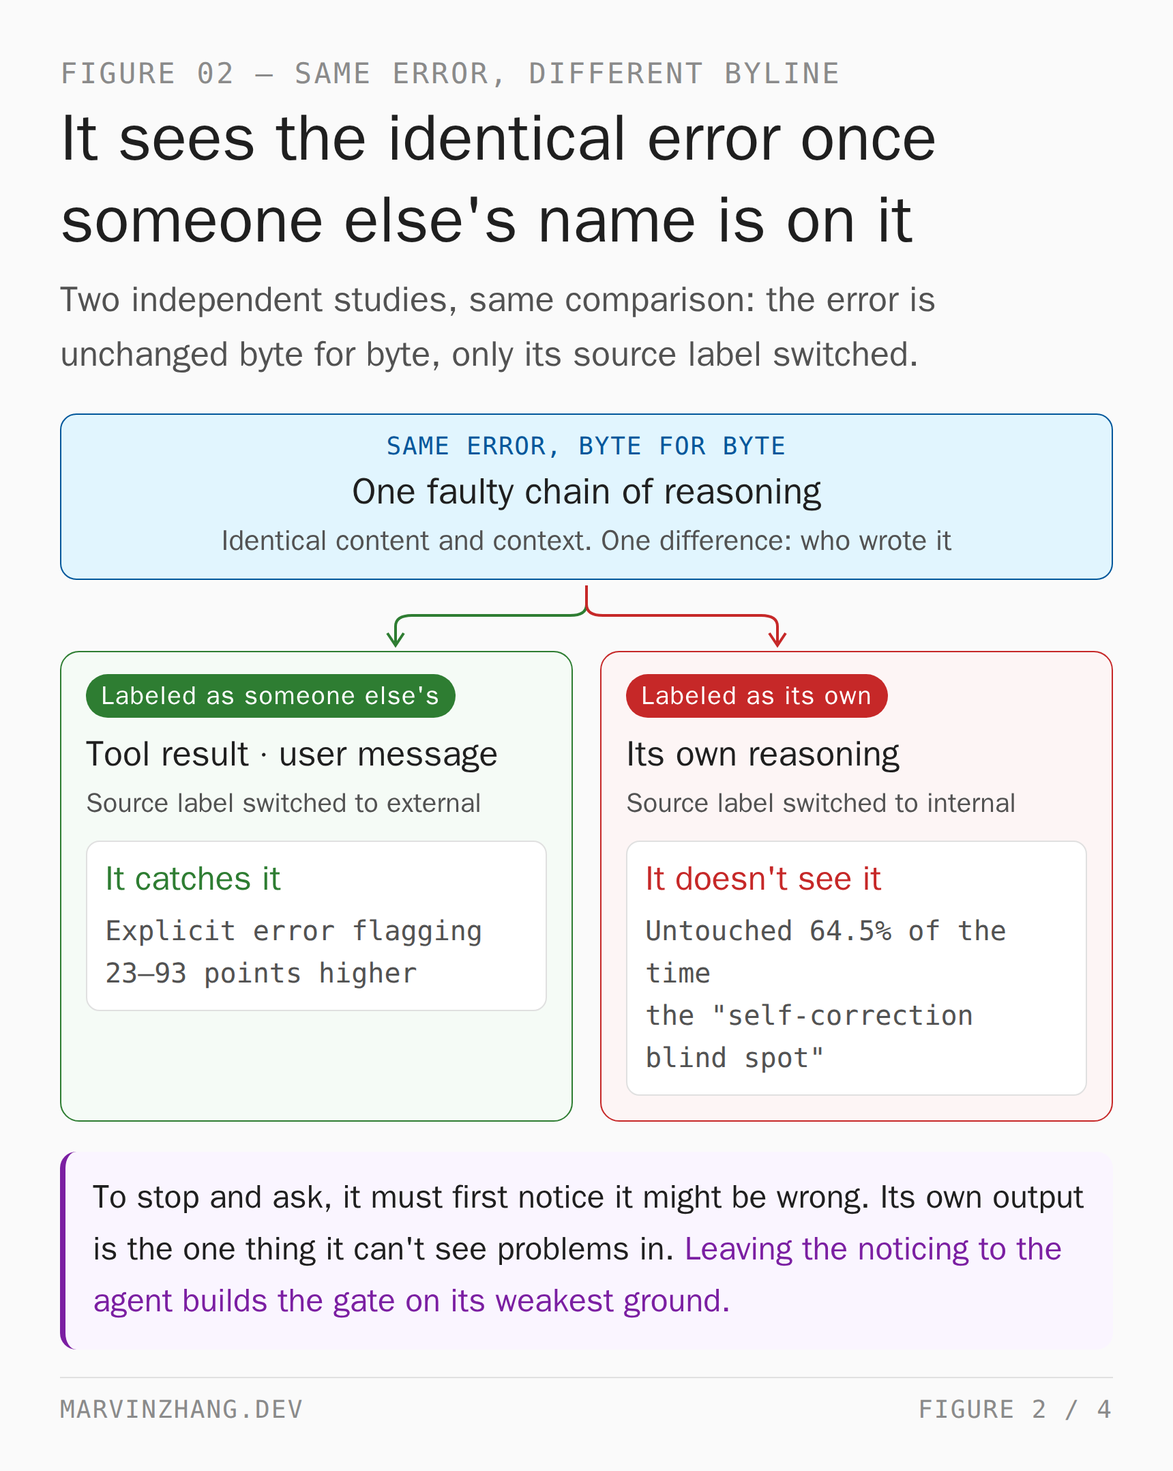
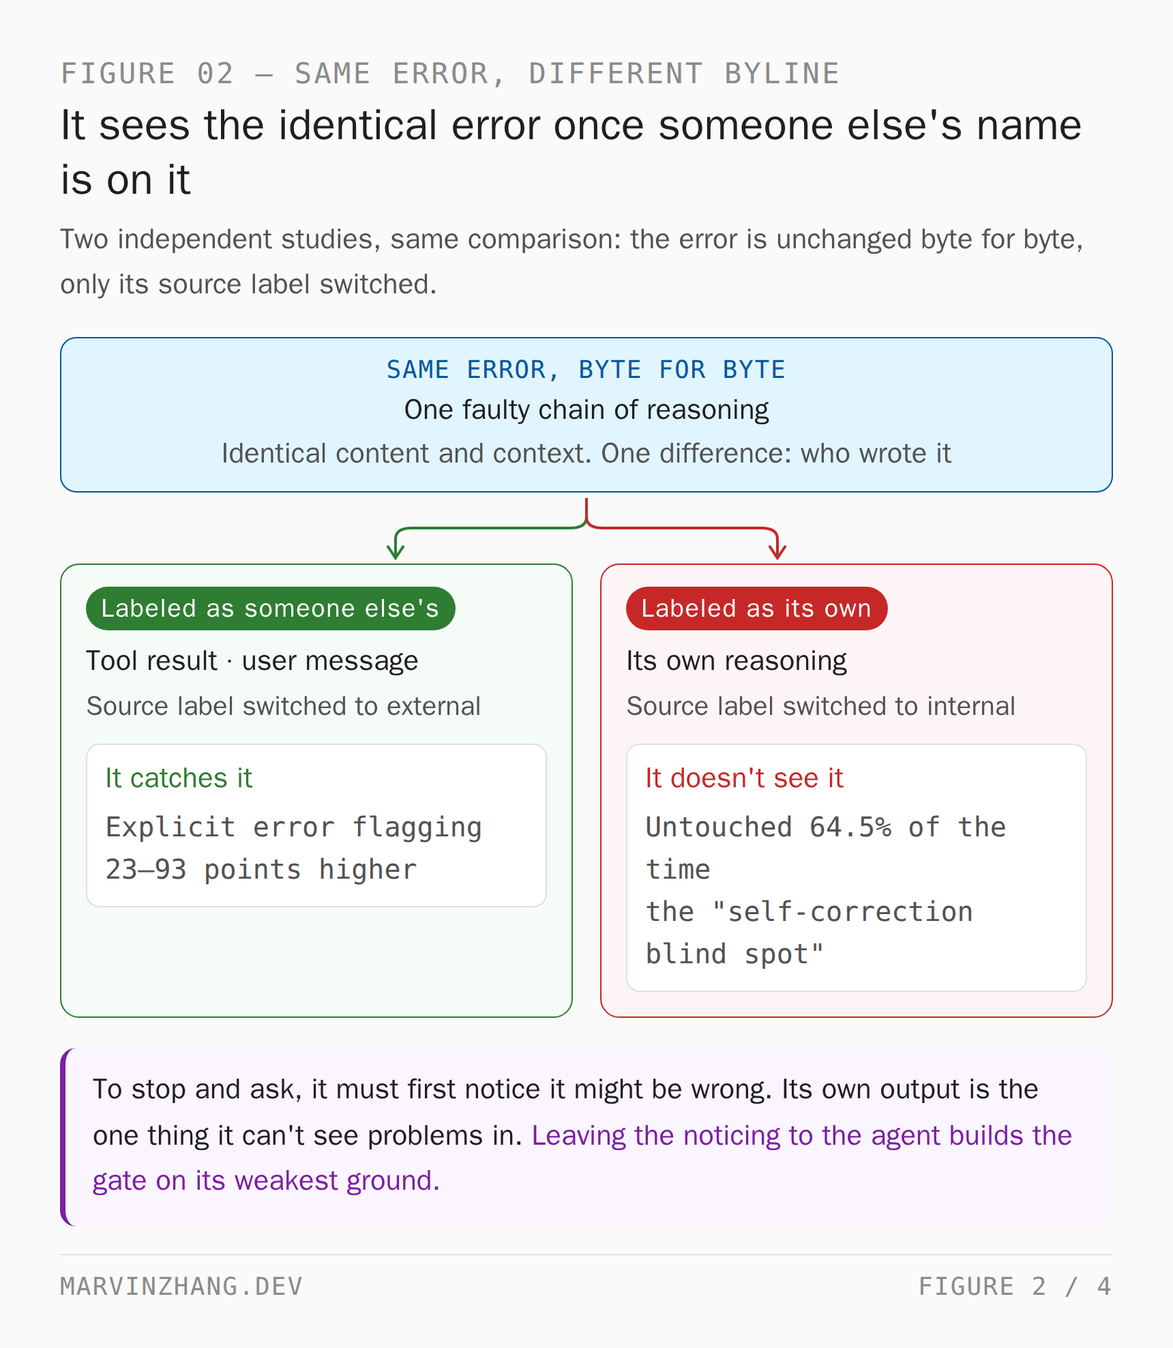
Compress the figure type scale: only the small text needed help
The previous pass scaled every size by 1.6x, which was wrong. Only the
small text had a legibility problem. The title was already 30px on an
860px canvas, i.e. 12.5px effective on a phone and perfectly readable;
pushing it to 42px bought nothing on the phone and made it 36px on
desktop against 18px body copy. The figure ended up shouting over the
prose it sits in.

The rule now is per-element rather than uniform: the title is set at 32px,
and nothing else may exceed 21px on this canvas, which is 18px on desktop
— no larger than body copy. Small text keeps most of its gain.

                 canvas   phone   desktop
  title           32      13.3    27.5
  cell title      21       8.7    18.0
  note            20       8.3    17.2
  example         19       7.9    16.3
  footer          18       7.5    15.4

Also drops cell min-height from 132 to 108. Notes were cut to one line in
the last pass but the floor stayed, so every cell carried dead space at
the bottom, which made the figure read as inflated on top of the type
being too large.

Phone effective sizes go from 7.1-10.4 to 7.5-8.7 at the small end, still
well above the 4.8px this started at.

Claude-Session: https://claude.ai/code/session_013SXeSeVJxSr2JRLCpiPBGP

diff --git a/drafts/2026-08-10-stop-babysitting-your-agent/figures/figure-3-trigger.en.html b/drafts/2026-08-10-stop-babysitting-your-agent/figures/figure-3-trigger.en.html
@@ -31,9 +31,9 @@
   .canvas { width: 860px; padding: 42px 44px 34px 44px; background: var(--canvas); }
   .header { margin-bottom: 24px; }
   .figno { font-family:'JetBrains Mono',monospace; font-size: 21px; letter-spacing:.08em; color:var(--ink-faint); text-transform:uppercase; }
-  h1 { font-size: 48px; font-weight:600; margin:6px 0 0; line-height:1.25; }
-  .subtitle { font-size: 26px; color:var(--ink-soft); margin-top:8px; line-height:1.55; }
-  .takeaway { margin-top:24px; padding:15px 20px; border-radius:12px; background:#faf5ff; border-left:4px solid var(--hi-stroke); font-size: 24px; line-height:1.6; }
+  h1 { font-size: 32px; font-weight:600; margin:6px 0 0; line-height:1.25; }
+  .subtitle { font-size: 21px; color:var(--ink-soft); margin-top:8px; line-height:1.55; }
+  .takeaway { margin-top:24px; padding:15px 20px; border-radius:12px; background:#faf5ff; border-left:4px solid var(--hi-stroke); font-size: 21px; line-height:1.6; }
   .takeaway b { color: var(--hi-stroke); }
   .footer { margin-top:22px; display:flex; justify-content:space-between; border-top:1px solid var(--line); padding-top:13px; font-family:'JetBrains Mono',monospace; font-size: 18px; color:var(--ink-faint); letter-spacing:.06em; text-transform:uppercase; }
 
@@ -41,22 +41,22 @@
   .panel { border:1.5px solid var(--line); border-radius:14px; background:#fff; padding:18px 20px 20px; }
   .panel.good { border-color:var(--ok-stroke); background:#f5fbf6; }
   .panel.bad  { border-color:var(--err-stroke); background:#fdf5f5; }
-  .ptitle { font-size: 29px; font-weight:600; }
+  .ptitle { font-size: 21px; font-weight:600; }
   .panel.good .ptitle { color:var(--ok-stroke); }
   .panel.bad  .ptitle { color:var(--err-stroke); }
   .plabel { font-family:'JetBrains Mono',monospace; font-size: 18px; letter-spacing:.05em; color:var(--ink-faint); margin-top:4px; }
 
   .chain { margin-top:16px; }
-  .node { border:1.4px solid var(--line); border-radius:10px; background:#fff; padding:10px 13px; font-size: 22px; line-height:1.45; }
-  .node .k { font-weight:600; font-size: 22px; display:block; margin-bottom:3px; }
+  .node { border:1.4px solid var(--line); border-radius:10px; background:#fff; padding:10px 13px; font-size: 21px; line-height:1.45; }
+  .node .k { font-weight:600; font-size: 21px; display:block; margin-bottom:3px; }
   .node .d { color:var(--ink-soft); font-size: 20px; }
   .node.src-out { border-color:var(--ok-stroke); background:#eef8ef; }
   .node.src-self { border-color:var(--err-stroke); background:#fdeeee; }
   .arrow { display:flex; justify-content:center; padding:7px 0; }
 
   .gate { display:flex; align-items:center; gap:10px; border:1.4px dashed var(--ink-faint); border-radius:10px; padding:10px 13px; background:#fff; }
-  .gate .g { font-size: 22px; font-weight:600; }
-  .verdict { margin-top:14px; border-radius:9px; padding:10px 13px; font-size: 22px; line-height:1.5; }
+  .gate .g { font-size: 21px; font-weight:600; }
+  .verdict { margin-top:14px; border-radius:9px; padding:10px 13px; font-size: 21px; line-height:1.5; }
   .verdict.ok  { background:var(--ok-fill);  color:#1b5e20; border:1px solid var(--ok-stroke); }
   .verdict.bad { background:var(--err-fill); color:#8e1c1c; border:1px solid var(--err-stroke); }
   .verdict b { font-weight:700; }

diff --git a/drafts/2026-08-10-stop-babysitting-your-agent/figures/figure-3-trigger.zh.html b/drafts/2026-08-10-stop-babysitting-your-agent/figures/figure-3-trigger.zh.html
@@ -31,9 +31,9 @@
   .canvas { width: 860px; padding: 42px 44px 34px 44px; background: var(--canvas); }
   .header { margin-bottom: 24px; }
   .figno { font-family:'JetBrains Mono',monospace; font-size: 21px; letter-spacing:.08em; color:var(--ink-faint); text-transform:uppercase; }
-  h1 { font-size: 48px; font-weight:600; margin:6px 0 0; line-height:1.25; }
-  .subtitle { font-size: 26px; color:var(--ink-soft); margin-top:8px; line-height:1.55; }
-  .takeaway { margin-top:24px; padding:15px 20px; border-radius:12px; background:#faf5ff; border-left:4px solid var(--hi-stroke); font-size: 24px; line-height:1.6; }
+  h1 { font-size: 32px; font-weight:600; margin:6px 0 0; line-height:1.25; }
+  .subtitle { font-size: 21px; color:var(--ink-soft); margin-top:8px; line-height:1.55; }
+  .takeaway { margin-top:24px; padding:15px 20px; border-radius:12px; background:#faf5ff; border-left:4px solid var(--hi-stroke); font-size: 21px; line-height:1.6; }
   .takeaway b { color: var(--hi-stroke); }
   .footer { margin-top:22px; display:flex; justify-content:space-between; border-top:1px solid var(--line); padding-top:13px; font-family:'JetBrains Mono',monospace; font-size: 18px; color:var(--ink-faint); letter-spacing:.06em; text-transform:uppercase; }
 
@@ -41,22 +41,22 @@
   .panel { border:1.5px solid var(--line); border-radius:14px; background:#fff; padding:18px 20px 20px; }
   .panel.good { border-color:var(--ok-stroke); background:#f5fbf6; }
   .panel.bad  { border-color:var(--err-stroke); background:#fdf5f5; }
-  .ptitle { font-size: 29px; font-weight:600; }
+  .ptitle { font-size: 21px; font-weight:600; }
   .panel.good .ptitle { color:var(--ok-stroke); }
   .panel.bad  .ptitle { color:var(--err-stroke); }
   .plabel { font-family:'JetBrains Mono',monospace; font-size: 18px; letter-spacing:.05em; color:var(--ink-faint); margin-top:4px; }
 
   .chain { margin-top:16px; }
-  .node { border:1.4px solid var(--line); border-radius:10px; background:#fff; padding:10px 13px; font-size: 22px; line-height:1.45; }
-  .node .k { font-weight:600; font-size: 22px; display:block; margin-bottom:3px; }
+  .node { border:1.4px solid var(--line); border-radius:10px; background:#fff; padding:10px 13px; font-size: 21px; line-height:1.45; }
+  .node .k { font-weight:600; font-size: 21px; display:block; margin-bottom:3px; }
   .node .d { color:var(--ink-soft); font-size: 20px; }
   .node.src-out { border-color:var(--ok-stroke); background:#eef8ef; }
   .node.src-self { border-color:var(--err-stroke); background:#fdeeee; }
   .arrow { display:flex; justify-content:center; padding:7px 0; }
 
   .gate { display:flex; align-items:center; gap:10px; border:1.4px dashed var(--ink-faint); border-radius:10px; padding:10px 13px; background:#fff; }
-  .gate .g { font-size: 22px; font-weight:600; }
-  .verdict { margin-top:14px; border-radius:9px; padding:10px 13px; font-size: 22px; line-height:1.5; }
+  .gate .g { font-size: 21px; font-weight:600; }
+  .verdict { margin-top:14px; border-radius:9px; padding:10px 13px; font-size: 21px; line-height:1.5; }
   .verdict.ok  { background:var(--ok-fill);  color:#1b5e20; border:1px solid var(--ok-stroke); }
   .verdict.bad { background:var(--err-fill); color:#8e1c1c; border:1px solid var(--err-stroke); }
   .verdict b { font-weight:700; }

diff --git a/drafts/2026-08-10-stop-babysitting-your-agent/figures/figure-1-control.en.html b/drafts/2026-08-10-stop-babysitting-your-agent/figures/figure-1-control.en.html
@@ -36,19 +36,19 @@
   .canvas { width: 860px; padding: 42px 44px 34px 44px; background: var(--canvas); }
   .header { margin-bottom: 26px; }
   .figno { font-family: 'JetBrains Mono', monospace; font-size: 21px; letter-spacing: 0.08em; color: var(--ink-faint); text-transform: uppercase; }
-  h1 { font-size: 48px; font-weight: 600; margin: 6px 0 0 0; letter-spacing: -0.005em; line-height: 1.25; }
-  .subtitle { font-size: 26px; color: var(--ink-soft); margin-top: 8px; line-height: 1.55; }
-  .takeaway { margin-top: 24px; padding: 15px 20px; border-radius: 12px; background: #faf5ff; border-left: 4px solid var(--hi-stroke); font-size: 24px; line-height: 1.6; }
+  h1 { font-size: 32px; font-weight: 600; margin: 6px 0 0 0; letter-spacing: -0.005em; line-height: 1.25; }
+  .subtitle { font-size: 21px; color: var(--ink-soft); margin-top: 8px; line-height: 1.55; }
+  .takeaway { margin-top: 24px; padding: 15px 20px; border-radius: 12px; background: #faf5ff; border-left: 4px solid var(--hi-stroke); font-size: 21px; line-height: 1.6; }
   .takeaway b { color: var(--hi-stroke); }
   .footer { margin-top: 22px; display: flex; justify-content: space-between; align-items: center; border-top: 1px solid var(--line); padding-top: 13px; font-family: 'JetBrains Mono', monospace; font-size: 18px; color: var(--ink-faint); letter-spacing: 0.06em; text-transform: uppercase; }
 
   .grid { display: grid; grid-template-columns: 168px 1fr 1fr; grid-template-rows: 64px 1fr 1fr; gap: 12px; }
-  .colhead, .rowhead { display: flex; flex-direction: column; align-items: center; justify-content: center; text-align: center; font-size: 23px; font-weight: 600; color: var(--ink-soft); line-height: 1.35; }
+  .colhead, .rowhead { display: flex; flex-direction: column; align-items: center; justify-content: center; text-align: center; font-size: 21px; font-weight: 600; color: var(--ink-soft); line-height: 1.35; }
   .colhead .sub { display: block; font-weight: 400; font-size: 20px; color: var(--ink-faint); margin-top: 3px; }
   .corner { }
 
-  .cell { border: 1.5px solid var(--line); border-radius: 12px; padding: 15px 17px; background: #fff; min-height: 132px; position: relative; }
-  .cell .mode { font-size: 27px; font-weight: 600; line-height: 1.3; }
+  .cell { border: 1.5px solid var(--line); border-radius: 12px; padding: 15px 17px; background: #fff; min-height: 108px; position: relative; }
+  .cell .mode { font-size: 21px; font-weight: 600; line-height: 1.3; }
   .cell .eg { font-family: 'JetBrains Mono', monospace; font-size: 19px; color: var(--ink-faint); letter-spacing: 0.03em; margin-top: 7px; }
   .cell .note { font-size: 21px; color: var(--ink-soft); line-height: 1.5; margin-top: 9px; }
 
@@ -63,7 +63,7 @@
   .pin.out { background: var(--ok-stroke); }
 
   .arrow { display: flex; justify-content: flex-end; margin-top: 10px; align-items: center; gap: 9px; }
-  .arrow .txt { font-size: 22px; font-weight: 600; color: var(--ok-stroke); }
+  .arrow .txt { font-size: 21px; font-weight: 600; color: var(--ok-stroke); }
 </style>
 </head>
 <body>

diff --git a/drafts/2026-08-10-stop-babysitting-your-agent/figures/figure-2-same-error.en.html b/drafts/2026-08-10-stop-babysitting-your-agent/figures/figure-2-same-error.en.html
@@ -32,15 +32,15 @@
   .canvas { width:860px; padding:42px 44px 34px 44px; background:var(--canvas); }
   .header { margin-bottom:22px; }
   .figno { font-family:'JetBrains Mono',monospace; font-size: 21px; letter-spacing:.08em; color:var(--ink-faint); text-transform:uppercase; }
-  h1 { font-size: 48px; font-weight:600; margin:6px 0 0; line-height:1.25; }
-  .subtitle { font-size: 26px; color:var(--ink-soft); margin-top:8px; line-height:1.55; }
-  .takeaway { margin-top:22px; padding:15px 20px; border-radius:12px; background:#faf5ff; border-left:4px solid var(--hi-stroke); font-size: 24px; line-height:1.6; }
+  h1 { font-size: 32px; font-weight:600; margin:6px 0 0; line-height:1.25; }
+  .subtitle { font-size: 21px; color:var(--ink-soft); margin-top:8px; line-height:1.55; }
+  .takeaway { margin-top:22px; padding:15px 20px; border-radius:12px; background:#faf5ff; border-left:4px solid var(--hi-stroke); font-size: 21px; line-height:1.6; }
   .takeaway b { color:var(--hi-stroke); }
   .footer { margin-top:20px; display:flex; justify-content:space-between; border-top:1px solid var(--line); padding-top:13px; font-family:'JetBrains Mono',monospace; font-size: 18px; color:var(--ink-faint); letter-spacing:.06em; text-transform:uppercase; }
 
   .seed { border:1.6px solid var(--info-stroke); background:var(--info-fill); border-radius:12px; padding:13px 18px; text-align:center; }
   .seed .cap { font-family:'JetBrains Mono',monospace; font-size: 18px; letter-spacing:.05em; color:var(--info-stroke); }
-  .seed .q { font-size: 27px; font-weight:600; margin-top:5px; }
+  .seed .q { font-size: 21px; font-weight:600; margin-top:5px; }
   .seed .n { font-size: 21px; color:var(--ink-soft); margin-top:4px; }
 
   .split { display:flex; justify-content:center; padding:4px 0 2px; }
@@ -51,10 +51,10 @@
   .tag { display:inline-block; font-size: 19px; font-weight:700; letter-spacing:.04em; padding:3px 11px; border-radius:999px; color:#fff; }
   .tag.good { background:var(--ok-stroke); }
   .tag.bad  { background:var(--err-stroke); }
-  .lane .who { font-size: 26px; font-weight:600; margin-top:9px; }
+  .lane .who { font-size: 21px; font-weight:600; margin-top:9px; }
   .lane .eg { font-size: 20px; color:var(--ink-soft); margin-top:4px; line-height:1.45; }
   .out { margin-top:13px; border-radius:10px; padding:11px 13px; background:#fff; border:1.3px solid var(--line); }
-  .out .r { font-size: 25px; font-weight:600; }
+  .out .r { font-size: 21px; font-weight:600; }
   .lane.good .out .r { color:var(--ok-stroke); }
   .lane.bad  .out .r { color:var(--err-stroke); }
   .out .num { font-family:'JetBrains Mono',monospace; font-size: 20px; color:var(--ink-soft); margin-top:6px; line-height:1.55; }

diff --git a/drafts/2026-08-10-stop-babysitting-your-agent/figures/figure-2-same-error.zh.html b/drafts/2026-08-10-stop-babysitting-your-agent/figures/figure-2-same-error.zh.html
@@ -32,15 +32,15 @@
   .canvas { width:860px; padding:42px 44px 34px 44px; background:var(--canvas); }
   .header { margin-bottom:22px; }
   .figno { font-family:'JetBrains Mono',monospace; font-size: 21px; letter-spacing:.08em; color:var(--ink-faint); text-transform:uppercase; }
-  h1 { font-size: 48px; font-weight:600; margin:6px 0 0; line-height:1.25; }
-  .subtitle { font-size: 26px; color:var(--ink-soft); margin-top:8px; line-height:1.55; }
-  .takeaway { margin-top:22px; padding:15px 20px; border-radius:12px; background:#faf5ff; border-left:4px solid var(--hi-stroke); font-size: 24px; line-height:1.6; }
+  h1 { font-size: 32px; font-weight:600; margin:6px 0 0; line-height:1.25; }
+  .subtitle { font-size: 21px; color:var(--ink-soft); margin-top:8px; line-height:1.55; }
+  .takeaway { margin-top:22px; padding:15px 20px; border-radius:12px; background:#faf5ff; border-left:4px solid var(--hi-stroke); font-size: 21px; line-height:1.6; }
   .takeaway b { color:var(--hi-stroke); }
   .footer { margin-top:20px; display:flex; justify-content:space-between; border-top:1px solid var(--line); padding-top:13px; font-family:'JetBrains Mono',monospace; font-size: 18px; color:var(--ink-faint); letter-spacing:.06em; text-transform:uppercase; }
 
   .seed { border:1.6px solid var(--info-stroke); background:var(--info-fill); border-radius:12px; padding:13px 18px; text-align:center; }
   .seed .cap { font-family:'JetBrains Mono',monospace; font-size: 18px; letter-spacing:.05em; color:var(--info-stroke); }
-  .seed .q { font-size: 27px; font-weight:600; margin-top:5px; }
+  .seed .q { font-size: 21px; font-weight:600; margin-top:5px; }
   .seed .n { font-size: 21px; color:var(--ink-soft); margin-top:4px; }
 
   .split { display:flex; justify-content:center; padding:4px 0 2px; }
@@ -51,10 +51,10 @@
   .tag { display:inline-block; font-size: 19px; font-weight:700; letter-spacing:.04em; padding:3px 11px; border-radius:999px; color:#fff; }
   .tag.good { background:var(--ok-stroke); }
   .tag.bad  { background:var(--err-stroke); }
-  .lane .who { font-size: 26px; font-weight:600; margin-top:9px; }
+  .lane .who { font-size: 21px; font-weight:600; margin-top:9px; }
   .lane .eg { font-size: 20px; color:var(--ink-soft); margin-top:4px; line-height:1.45; }
   .out { margin-top:13px; border-radius:10px; padding:11px 13px; background:#fff; border:1.3px solid var(--line); }
-  .out .r { font-size: 25px; font-weight:600; }
+  .out .r { font-size: 21px; font-weight:600; }
   .lane.good .out .r { color:var(--ok-stroke); }
   .lane.bad  .out .r { color:var(--err-stroke); }
   .out .num { font-family:'JetBrains Mono',monospace; font-size: 20px; color:var(--ink-soft); margin-top:6px; line-height:1.55; }

diff --git a/drafts/2026-08-10-stop-babysitting-your-agent/figures/figure-1-control.zh.html b/drafts/2026-08-10-stop-babysitting-your-agent/figures/figure-1-control.zh.html
@@ -36,9 +36,9 @@
   .canvas { width: 860px; padding: 42px 44px 34px 44px; background: var(--canvas); }
   .header { margin-bottom: 26px; }
   .figno { font-family: 'JetBrains Mono', monospace; font-size: 19px; letter-spacing: 0.08em; color: var(--ink-faint); text-transform: uppercase; }
-  h1 { font-size: 42px; font-weight: 600; margin: 8px 0 0 0; letter-spacing: -0.005em; line-height: 1.25; }
-  .subtitle { font-size: 23px; color: var(--ink-soft); margin-top: 10px; line-height: 1.55; }
-  .takeaway { margin-top: 24px; padding: 18px 22px; border-radius: 12px; background: #faf5ff; border-left: 5px solid var(--hi-stroke); font-size: 22px; line-height: 1.6; }
+  h1 { font-size: 32px; font-weight: 600; margin: 8px 0 0 0; letter-spacing: -0.005em; line-height: 1.25; }
+  .subtitle { font-size: 21px; color: var(--ink-soft); margin-top: 10px; line-height: 1.55; }
+  .takeaway { margin-top: 24px; padding: 18px 22px; border-radius: 12px; background: #faf5ff; border-left: 5px solid var(--hi-stroke); font-size: 21px; line-height: 1.6; }
   .takeaway b { color: var(--hi-stroke); }
   .footer { margin-top: 22px; display: flex; justify-content: space-between; align-items: center; border-top: 1px solid var(--line); padding-top: 13px; font-family: 'JetBrains Mono', monospace; font-size: 17px; color: var(--ink-faint); letter-spacing: 0.06em; text-transform: uppercase; }
 
@@ -48,8 +48,8 @@
   .colhead .sub { display: block; font-weight: 400; font-size: 18px; color: var(--ink-faint); margin-top: 3px; }
   .corner { }
 
-  .cell { border: 1.5px solid var(--line); border-radius: 12px; padding: 17px 19px; background: #fff; min-height: 132px; position: relative; }
-  .cell .mode { font-size: 25px; font-weight: 600; line-height: 1.3; }
+  .cell { border: 1.5px solid var(--line); border-radius: 12px; padding: 17px 19px; background: #fff; min-height: 108px; position: relative; }
+  .cell .mode { font-size: 21px; font-weight: 600; line-height: 1.3; }
   .cell .eg { font-family: 'JetBrains Mono', monospace; font-size: 18px; color: var(--ink-faint); letter-spacing: 0.03em; margin-top: 8px; }
   .cell .note { font-size: 20px; color: var(--ink-soft); line-height: 1.5; margin-top: 10px; }
 

diff --git a/drafts/2026-08-10-stop-babysitting-your-agent/figures/figure-4-correlated.en.html b/drafts/2026-08-10-stop-babysitting-your-agent/figures/figure-4-correlated.en.html
@@ -31,18 +31,18 @@
   .canvas { width:860px; padding:42px 44px 34px 44px; background:var(--canvas); }
   .header { margin-bottom:24px; }
   .figno { font-family:'JetBrains Mono',monospace; font-size: 21px; letter-spacing:.08em; color:var(--ink-faint); text-transform:uppercase; }
-  h1 { font-size: 48px; font-weight:600; margin:6px 0 0; line-height:1.25; }
-  .subtitle { font-size: 26px; color:var(--ink-soft); margin-top:8px; line-height:1.55; }
-  .takeaway { margin-top:24px; padding:15px 20px; border-radius:12px; background:#faf5ff; border-left:4px solid var(--hi-stroke); font-size: 24px; line-height:1.6; }
+  h1 { font-size: 32px; font-weight:600; margin:6px 0 0; line-height:1.25; }
+  .subtitle { font-size: 21px; color:var(--ink-soft); margin-top:8px; line-height:1.55; }
+  .takeaway { margin-top:24px; padding:15px 20px; border-radius:12px; background:#faf5ff; border-left:4px solid var(--hi-stroke); font-size: 21px; line-height:1.6; }
   .takeaway b { color:var(--hi-stroke); }
   .footer { margin-top:22px; display:flex; justify-content:space-between; border-top:1px solid var(--line); padding-top:13px; font-family:'JetBrains Mono',monospace; font-size: 18px; color:var(--ink-faint); letter-spacing:.06em; text-transform:uppercase; }
 
   .cols { display:grid; grid-template-columns:1fr 1fr; gap:20px; }
   .panel { border:1.5px solid var(--line); border-radius:14px; background:#fff; padding:18px 20px 20px; }
-  .ptitle { font-size: 29px; font-weight:600; }
+  .ptitle { font-size: 21px; font-weight:600; }
   .psub { font-size: 21px; color:var(--ink-soft); margin-top:5px; line-height:1.45; min-height:56px; }
   .plot { margin-top:12px; border-radius:10px; background:#fff; border:1px solid var(--line); }
-  .how { margin-top:14px; border-radius:9px; padding:11px 13px; font-size: 22px; line-height:1.5; }
+  .how { margin-top:14px; border-radius:9px; padding:11px 13px; font-size: 21px; line-height:1.5; }
   .how.bad { background:#fdf3f3; border:1px solid var(--err-stroke); color:#8e1c1c; }
   .how.ok  { background:var(--ok-fill); border:1px solid var(--ok-stroke); color:#1b5e20; }
   .how b { font-weight:700; }

diff --git a/drafts/2026-08-10-stop-babysitting-your-agent/figures/figure-4-correlated.zh.html b/drafts/2026-08-10-stop-babysitting-your-agent/figures/figure-4-correlated.zh.html
@@ -31,18 +31,18 @@
   .canvas { width:860px; padding:42px 44px 34px 44px; background:var(--canvas); }
   .header { margin-bottom:24px; }
   .figno { font-family:'JetBrains Mono',monospace; font-size: 21px; letter-spacing:.08em; color:var(--ink-faint); text-transform:uppercase; }
-  h1 { font-size: 48px; font-weight:600; margin:6px 0 0; line-height:1.25; }
-  .subtitle { font-size: 26px; color:var(--ink-soft); margin-top:8px; line-height:1.55; }
-  .takeaway { margin-top:24px; padding:15px 20px; border-radius:12px; background:#faf5ff; border-left:4px solid var(--hi-stroke); font-size: 24px; line-height:1.6; }
+  h1 { font-size: 32px; font-weight:600; margin:6px 0 0; line-height:1.25; }
+  .subtitle { font-size: 21px; color:var(--ink-soft); margin-top:8px; line-height:1.55; }
+  .takeaway { margin-top:24px; padding:15px 20px; border-radius:12px; background:#faf5ff; border-left:4px solid var(--hi-stroke); font-size: 21px; line-height:1.6; }
   .takeaway b { color:var(--hi-stroke); }
   .footer { margin-top:22px; display:flex; justify-content:space-between; border-top:1px solid var(--line); padding-top:13px; font-family:'JetBrains Mono',monospace; font-size: 18px; color:var(--ink-faint); letter-spacing:.06em; text-transform:uppercase; }
 
   .cols { display:grid; grid-template-columns:1fr 1fr; gap:20px; }
   .panel { border:1.5px solid var(--line); border-radius:14px; background:#fff; padding:18px 20px 20px; }
-  .ptitle { font-size: 29px; font-weight:600; }
+  .ptitle { font-size: 21px; font-weight:600; }
   .psub { font-size: 21px; color:var(--ink-soft); margin-top:5px; line-height:1.45; min-height:38px; }
   .plot { margin-top:12px; border-radius:10px; background:#fff; border:1px solid var(--line); }
-  .how { margin-top:14px; border-radius:9px; padding:11px 13px; font-size: 22px; line-height:1.5; }
+  .how { margin-top:14px; border-radius:9px; padding:11px 13px; font-size: 21px; line-height:1.5; }
   .how.bad { background:#fdf3f3; border:1px solid var(--err-stroke); color:#8e1c1c; }
   .how.ok  { background:var(--ok-fill); border:1px solid var(--ok-stroke); color:#1b5e20; }
   .how b { font-weight:700; }
